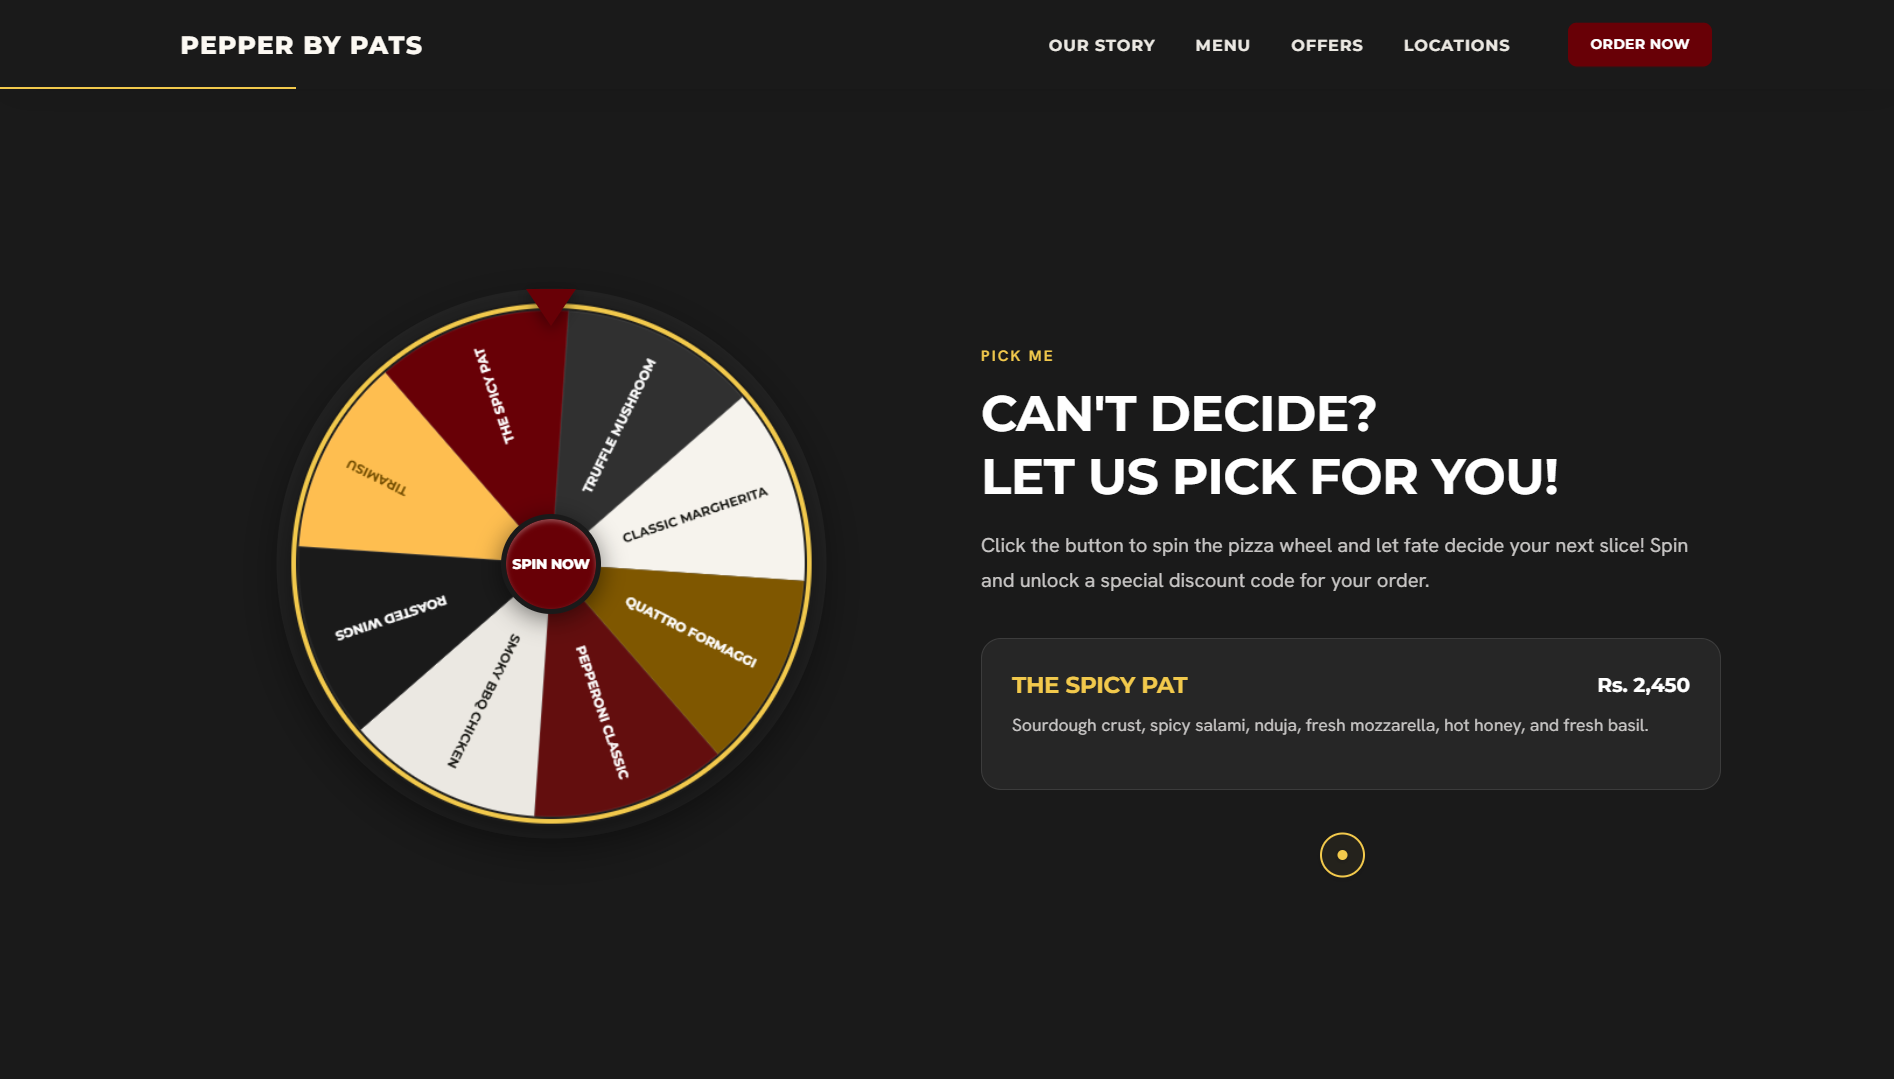
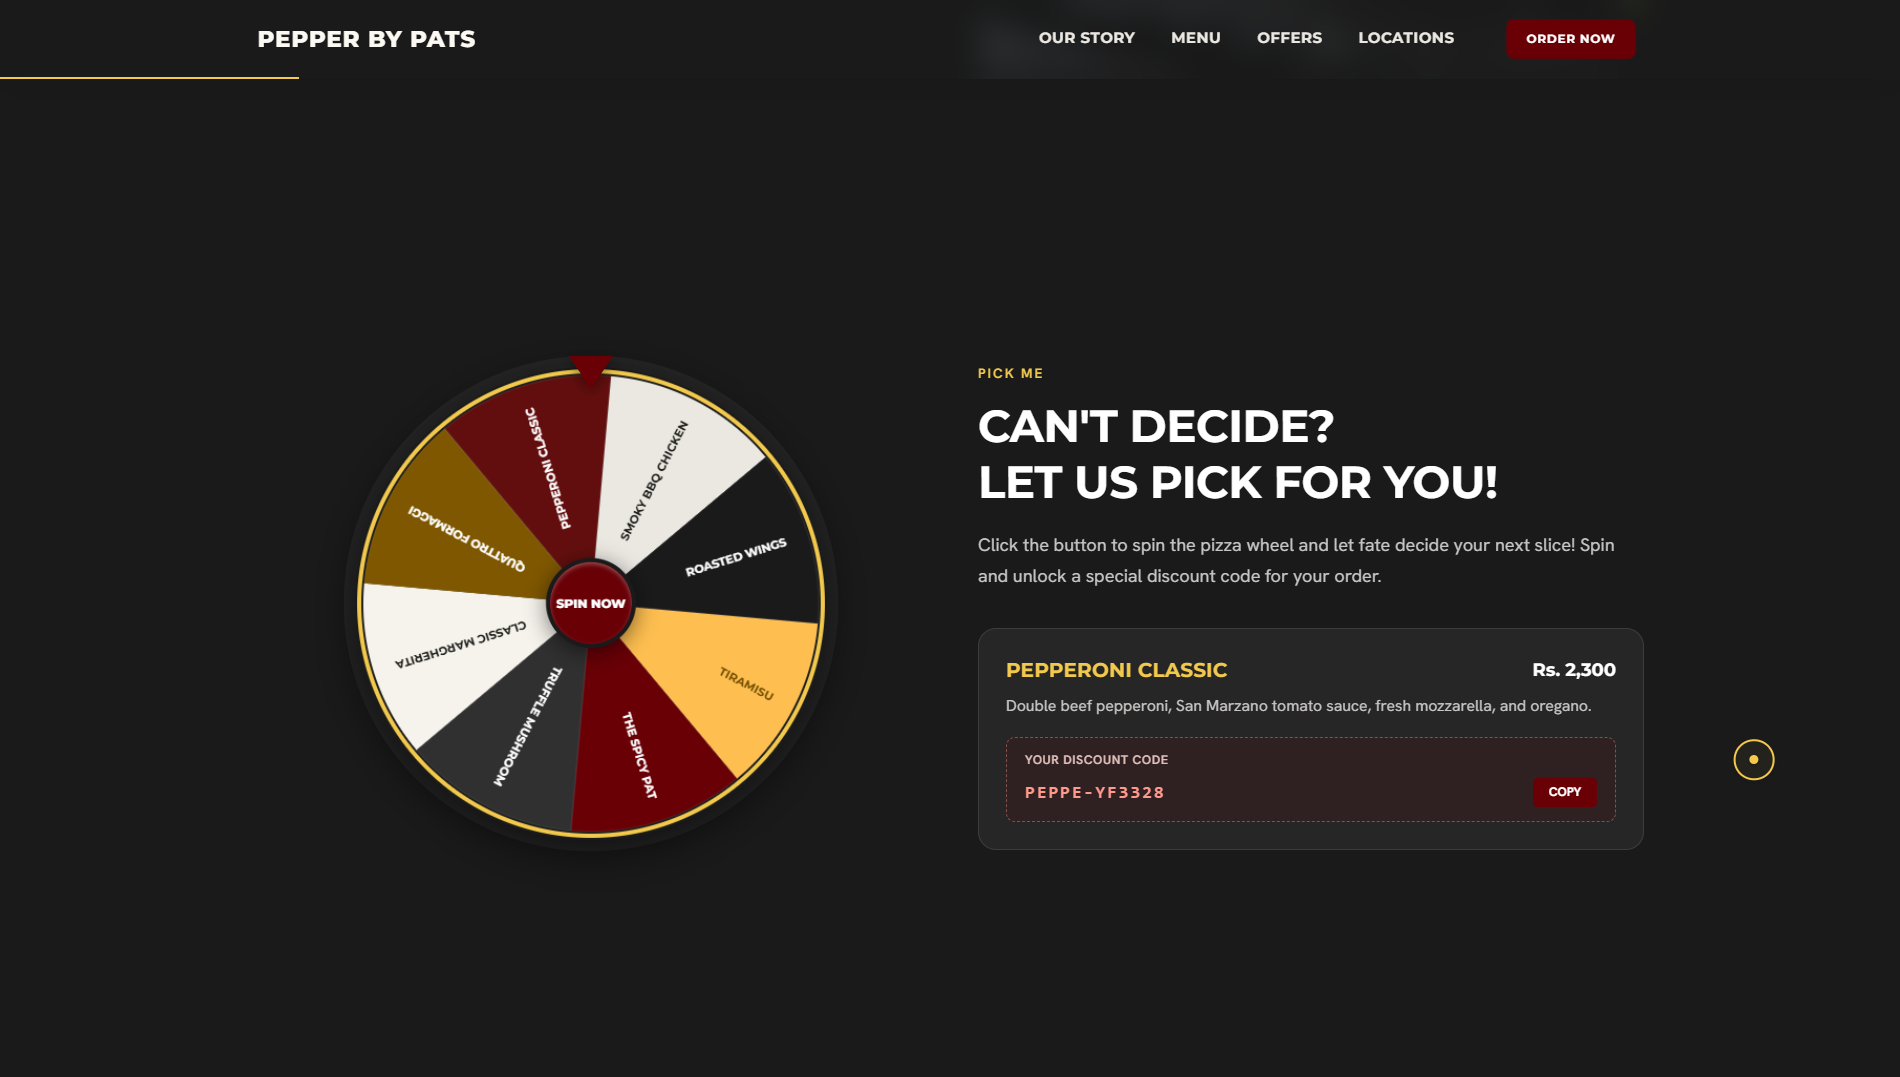
feat: add dynamic coupon generation UI and optimize hero scroll indicator animation while removing button hover transforms

diff --git a/app.js b/app.js
@@ -279,8 +279,16 @@ document.addEventListener('DOMContentLoaded', () => {
   if (navListItems.length > 0) heroTL.from(navListItems, { opacity: 0, y: -10, stagger: 0.1 }, '-=0.8');
   // If the header action button exists, scale it up and fade in smoothly
   if (navCtaBtn) heroTL.from(navCtaBtn, { opacity: 0, scale: 0.9 }, '-=0.6');
-  // If the scroll indicator exists, slide it up slightly and fade it in at the end
-  if (scrollIndicator) heroTL.from(scrollIndicator, { opacity: 0, y: 10 }, '-=0.4');
+  // Animate the scroll indicator independently so it appears faster (at 1.0s delay instead of waiting for timeline to finish)
+  if (scrollIndicator) {
+    gsap.from(scrollIndicator, {
+      opacity: 0,
+      y: 10,
+      duration: 1.2,
+      delay: 1.0,
+      ease: 'power4.out'
+    });
+  }
 
   // Retrieve the background image element of the hero section
   const heroBgImg = document.getElementById('hero-bg-img');
@@ -636,14 +644,10 @@ document.addEventListener('DOMContentLoaded', () => {
     
     // Check if the discount coupon code node is available in the DOM
     if (couponText) {
-      // Map custom code names depending on which item won the spin selection
-      if (item.name === "THE SPICY PAT") {
-        couponText.innerText = "HOTPAT15";
-      } else if (item.name === "TRUFFLE MUSHROOM") {
-        couponText.innerText = "TRUFFLE10";
-      } else {
-        couponText.innerText = "FIRSTSLICE";
-      }
+      // Generate a dynamic random coupon code: Prefix from item name + random 6-character alphanumeric string
+      const prefix = item.name.replace(/[^A-Z0-9]/gi, '').substring(0, 5).toUpperCase();
+      const randomStr = Math.random().toString(36).substring(2, 8).toUpperCase();
+      couponText.innerText = `${prefix}-${randomStr}`;
     }
     
     // Add active class to transition result card into view (opacity, translate properties)

diff --git a/style.css b/style.css
@@ -278,7 +278,6 @@ body.theme-dark .section-desc {
 /* Hover effects for primary button */
 .btn-primary:hover {
   background-color: var(--color-deep-crimson);/* Shift to darker red */
-  transform: translateY(-2px);               /* Translate up slightly */
   box-shadow: 0 6px 20px rgba(104, 0, 6, 0.3);/* Intense shadow on hover */
 }
 
@@ -292,7 +291,6 @@ body.theme-dark .section-desc {
 .btn-outline:hover {
   background-color: #ffffff;
   color: var(--color-charcoal);
-  transform: translateY(-2px);
 }
 
 /* ==========================================================================
@@ -463,16 +461,7 @@ body.theme-dark .main-header.scrolled .nav-link:hover {
 
 .nav-cta-btn:hover {
   background-color: var(--color-deep-crimson);
-  animation: premium-bounce 0.6s ease;
   box-shadow: 0 4px 15px rgba(104, 0, 6, 0.4);
-}
-
-@keyframes premium-bounce {
-  0% { transform: scale(1); }
-  30% { transform: scale(1.08) translateY(-3px); }
-  50% { transform: scale(0.96) translateY(1px); }
-  75% { transform: scale(1.02) translateY(-1px); }
-  100% { transform: scale(1); }
 }
 
 /* Hamburger button icon representing menu drawer toggle on small displays */

diff --git a/index.html b/index.html
@@ -148,6 +148,15 @@
             </div>
             <!-- Dynamically populated ingredients details list -->
             <p class="result-desc" id="result-pizza-desc">Your pizza recommendation will appear here.</p>
+            
+            <!-- Coupon discount display code block -->
+            <div class="coupon-box">
+              <span class="coupon-label">YOUR DISCOUNT CODE</span>
+              <div class="coupon-row">
+                <span class="coupon-code" id="coupon-code-text">FIRSTSLICE</span>
+                <button class="copy-coupon-btn" id="copy-coupon-btn">COPY</button>
+              </div>
+            </div>
           </div>
         </div>
       </div>
